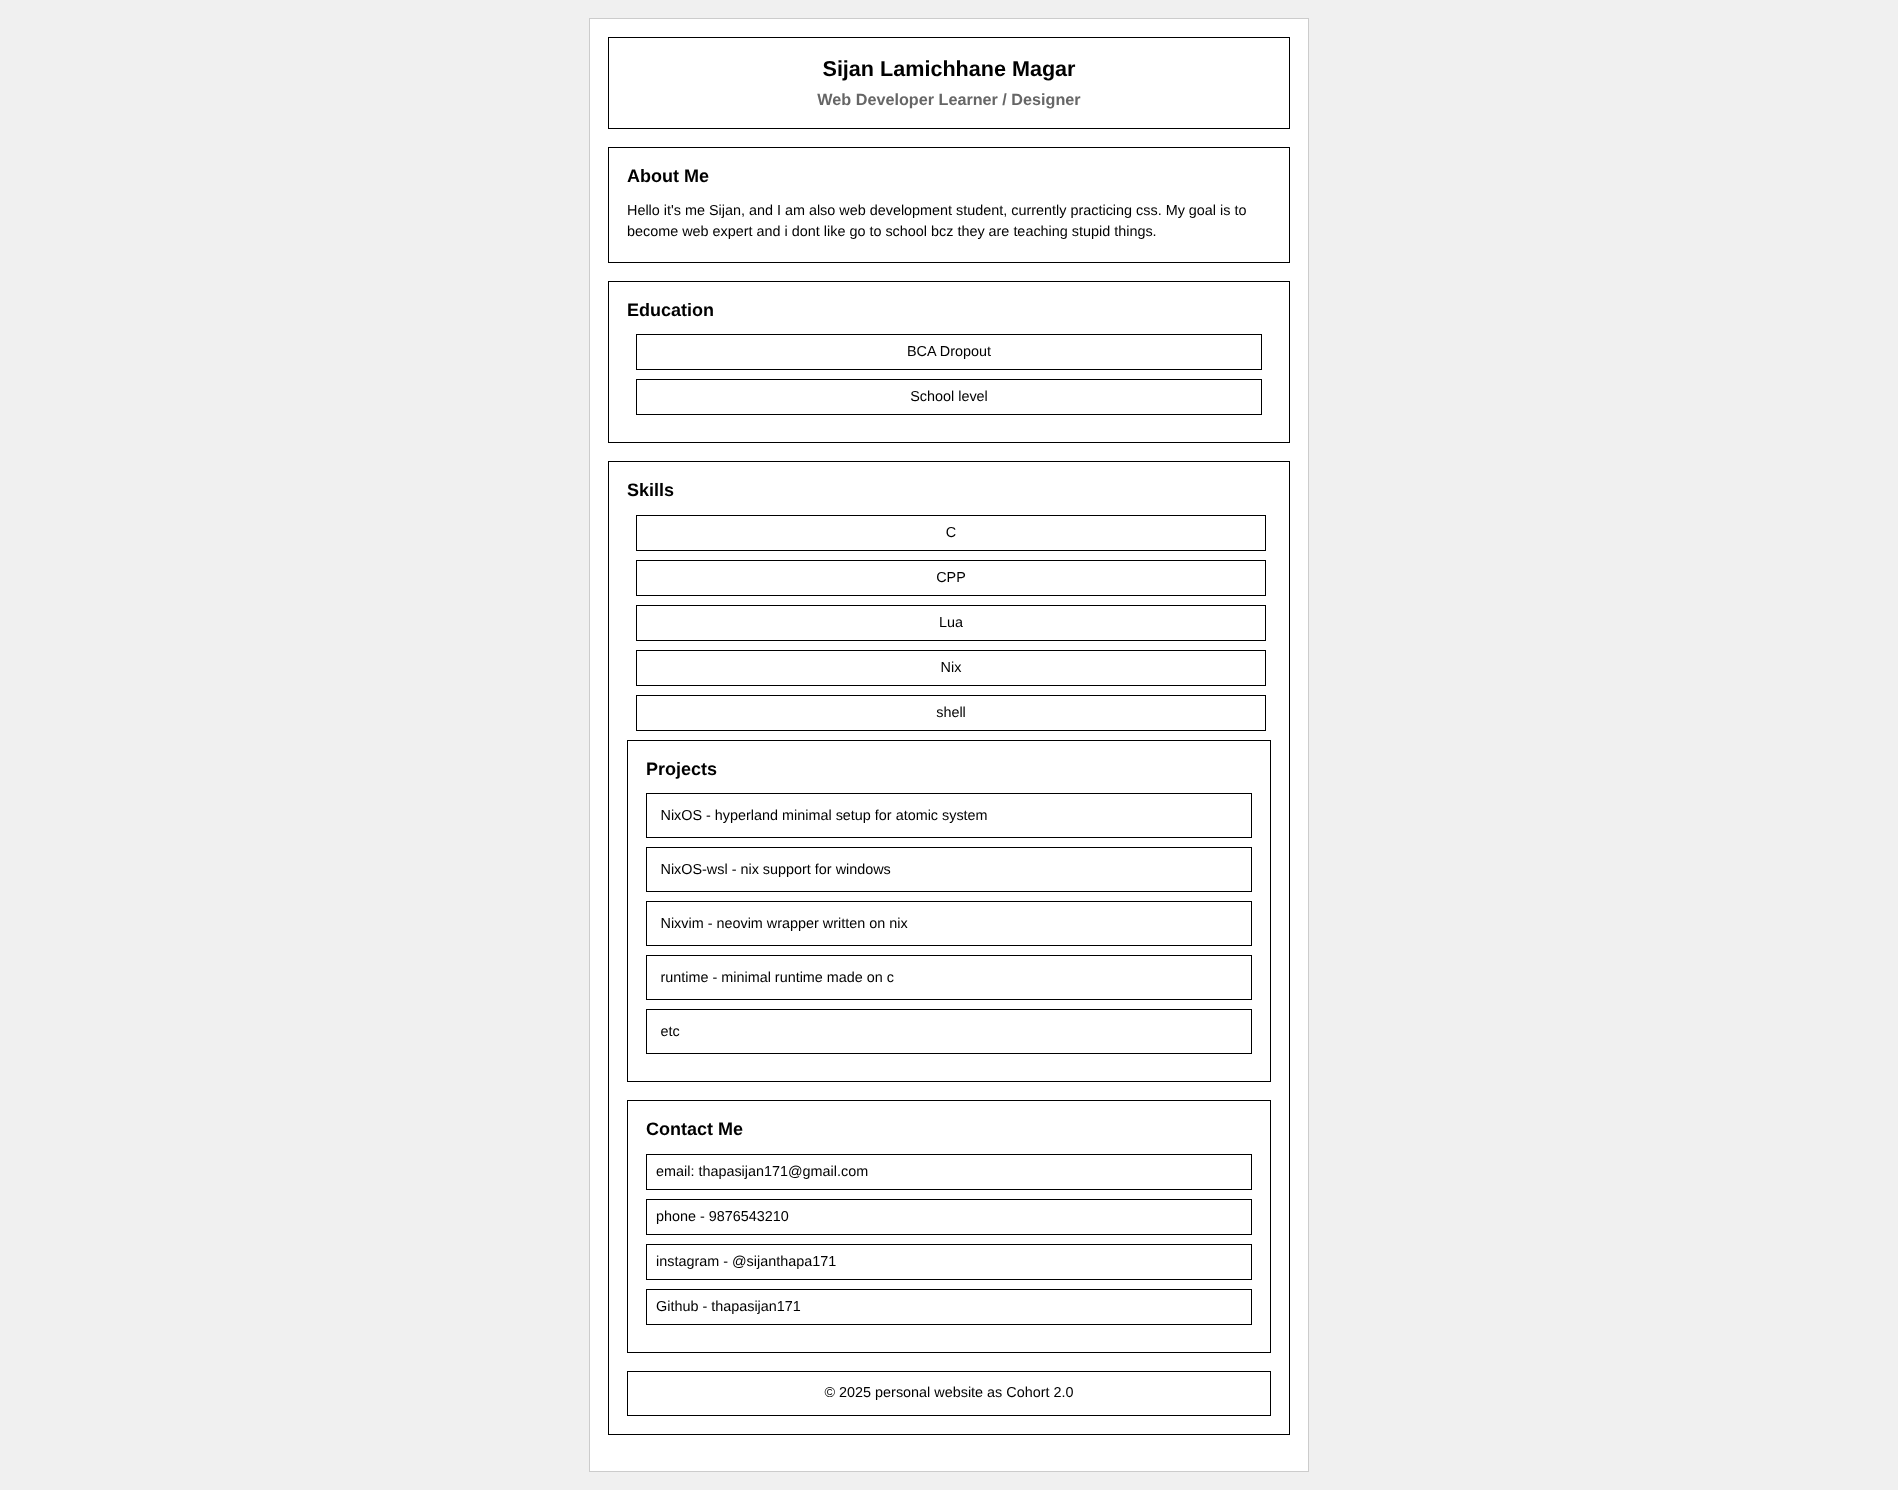
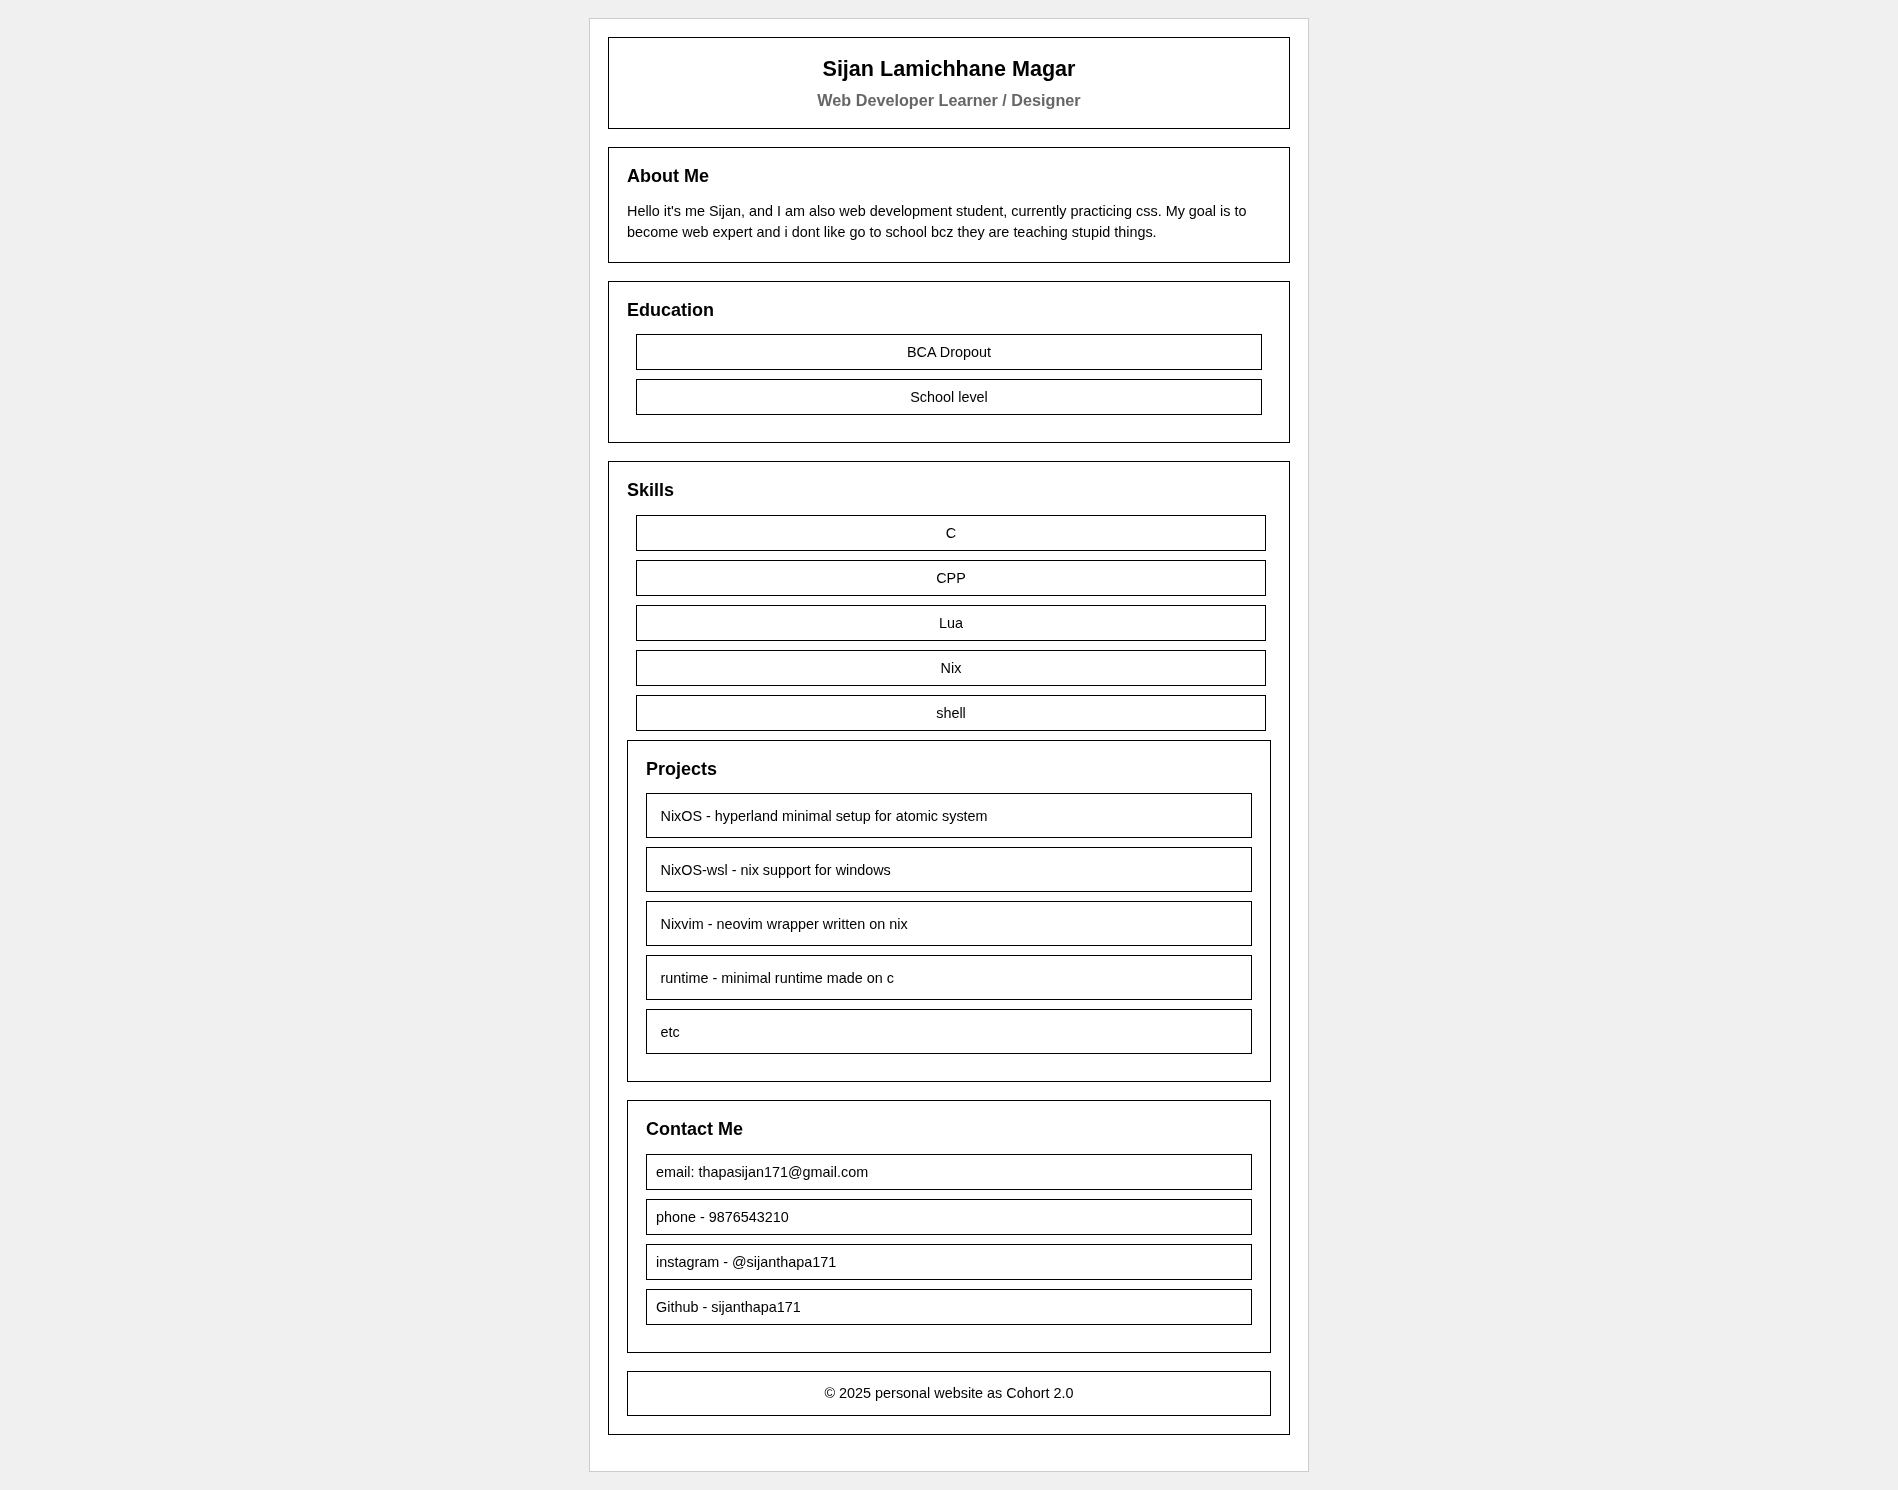
update: update github username

diff --git a/task1/index.html b/task1/index.html
@@ -53,7 +53,7 @@
                 <div class="contact-item">email: thapasijan171@gmail.com</div>
                 <div class="contact-item">phone - 9876543210</div>
                 <div class="contact-item">instagram - @sijanthapa171</div>
-                <div class="contact-item">Github - thapasijan171</div>
+                <div class="contact-item">Github - sijanthapa171</div>
             </div>
 
             <div class="footer">
